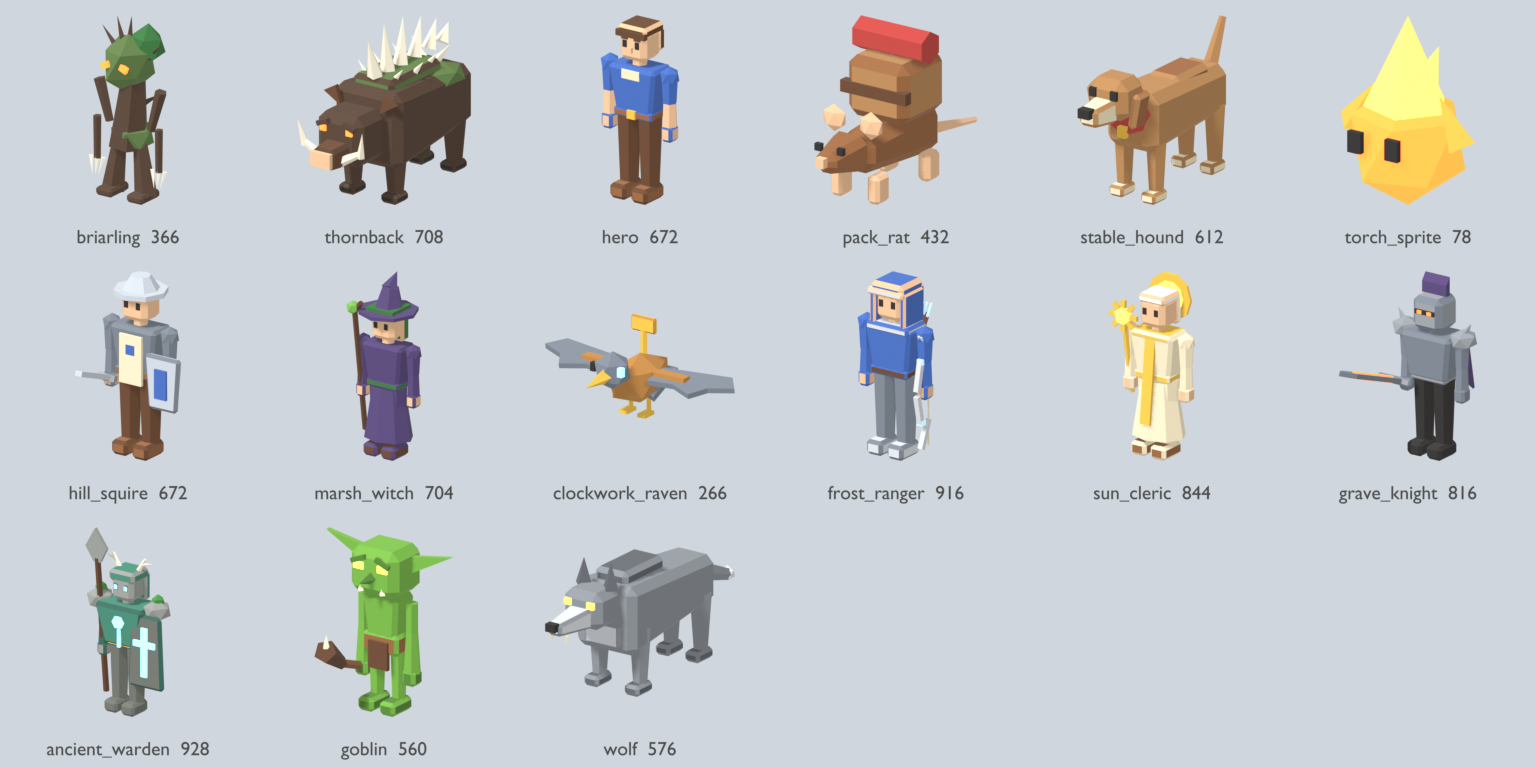
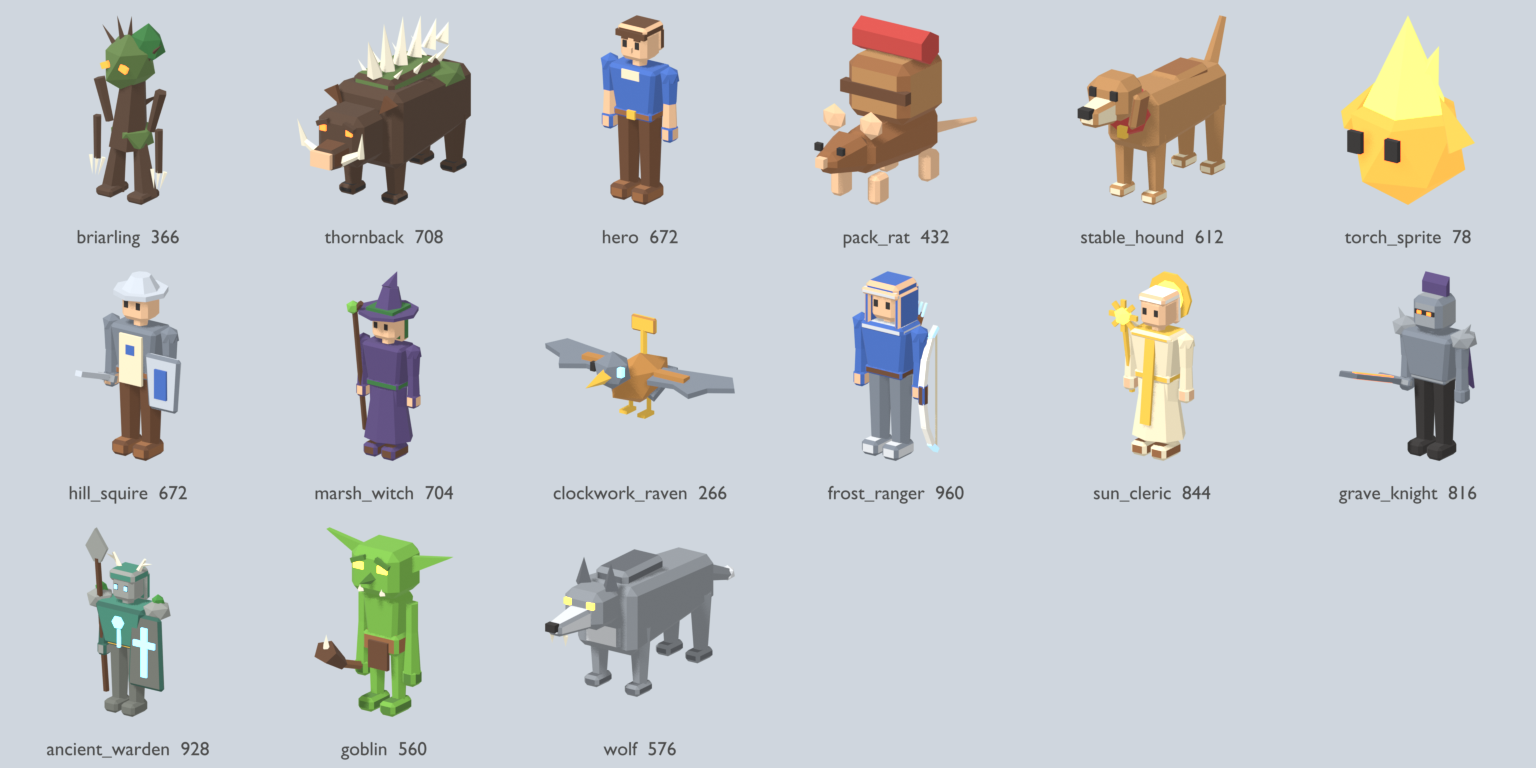
Rebuild the Frost Ranger's bow as a readable recurve
The bow was a jumble of pale bars. It is now a recurve held upright at
the side: dark grip, white limbs sweeping back to glowing tips, and a
string.

Changed region(s): [[0.5312, 0.3438, 0.625, 0.5938]]

diff --git a/tools/art/models/companions.py b/tools/art/models/companions.py
@@ -213,11 +213,14 @@ def frost_ranger():
     head.box((0.42 * s, 0.07 * s, 0.07 * s), (0, -0.17 * s, 1.67 * s), "fur_light", bevel=0.02)
     x, y, z = _held(p["arm_l"], s, side=1)
     arm = p["arm_l"]
+    # Recurve bow held upright at the side: belly forward, limbs sweeping back to the string.
+    x += 0.09
+    arm.box((0.07, 0.08, 0.2), (x, y - 0.06, z), "leather_dark", bevel=0.015)
     for sign in (1, -1):
-        arm.box((0.05, 0.05, 0.3 * s), (x, y - 0.06 - 0.02 * sign * sign, z + 0.17 * s * sign), "fur_light", rot=(-12 * sign, 0, 0))
-        arm.box((0.05, 0.05, 0.3 * s), (x, y + 0.01, z + 0.44 * s * sign), "fur_light", rot=(22 * sign, 0, 0))
-        arm.box((0.06, 0.06, 0.05), (x, y - 0.04, z + 0.31 * s * sign), "moon")
-    arm.box((0.012, 0.012, 1.14 * s), (x, y + 0.07, z), "cloth_cream")
+        arm.box((0.06, 0.055, 0.26), (x, y - 0.045, z + 0.2 * sign), "white", rot=(-10 * sign, 0, 0))
+        arm.box((0.055, 0.05, 0.24), (x, y + 0.02, z + 0.41 * sign), "white", rot=(-26 * sign, 0, 0))
+        arm.box((0.05, 0.045, 0.14), (x, y + 0.1, z + 0.55 * sign), "moon", rot=(-48 * sign, 0, 0))
+    arm.box((0.014, 0.014, 1.16), (x, y + 0.15, z), "cloth_cream")
     return list(p.values())
 
 
